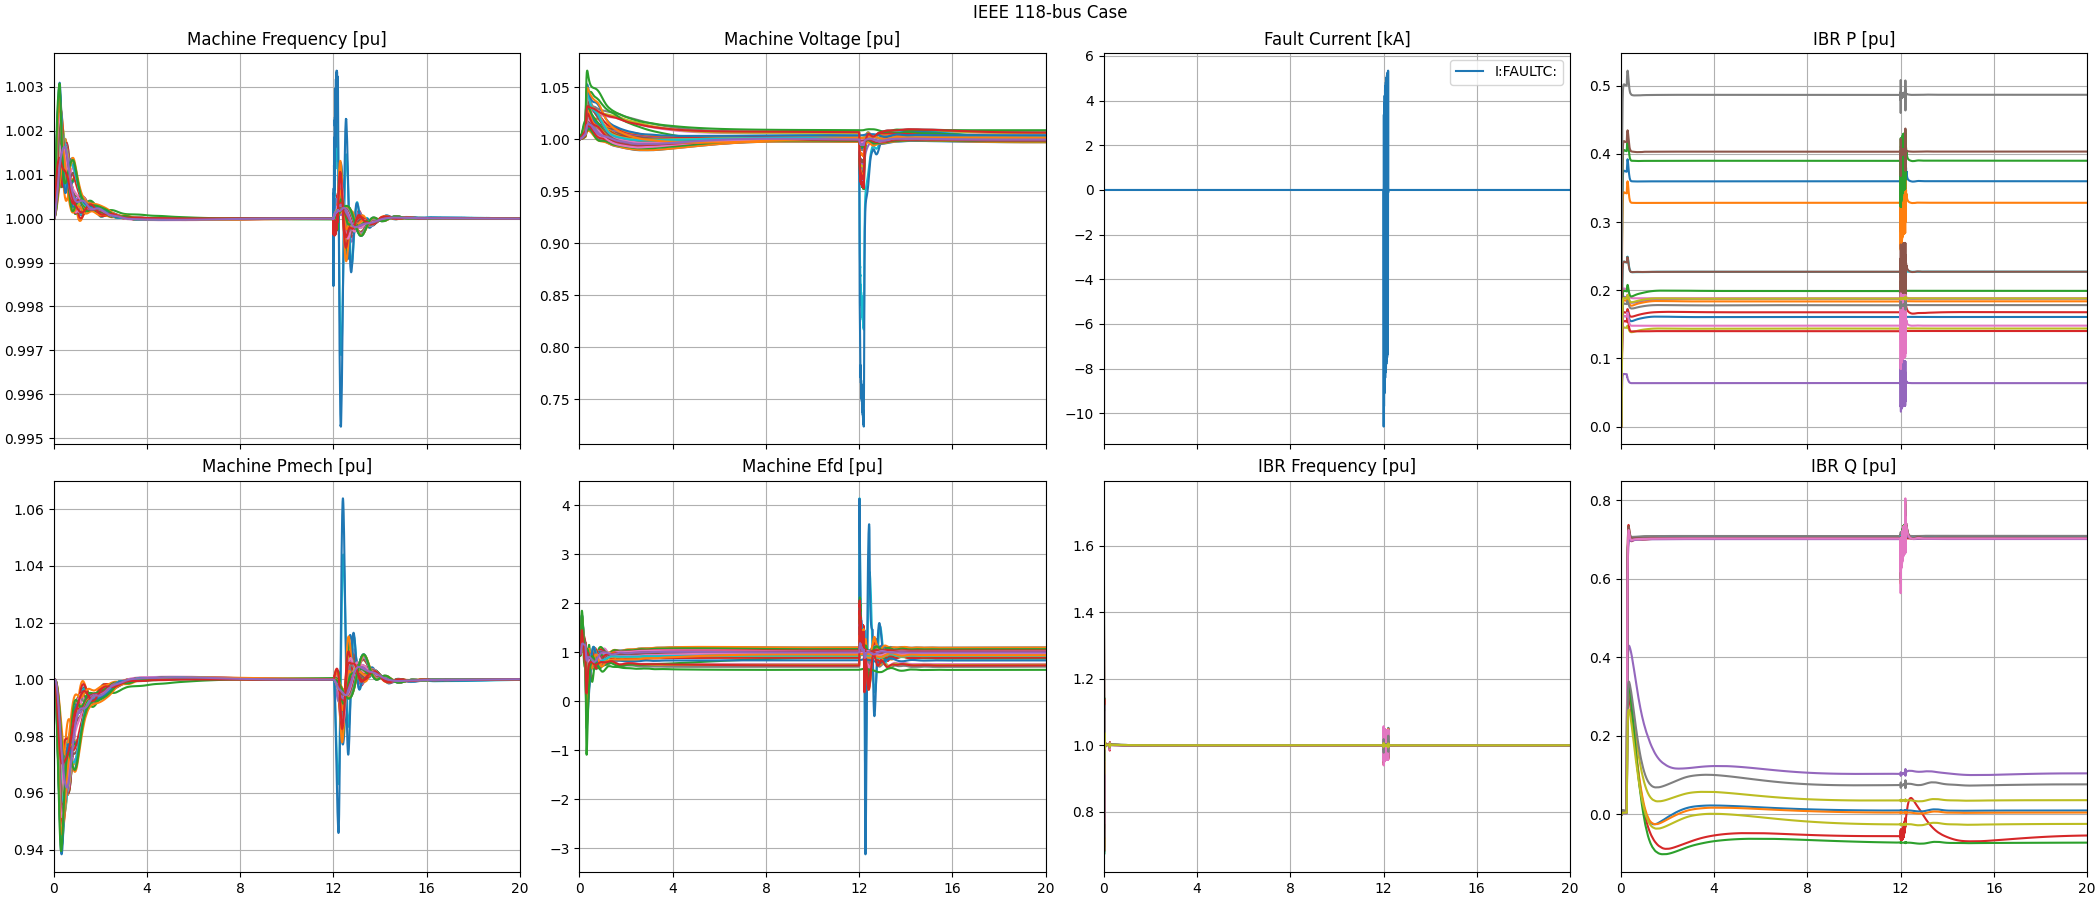
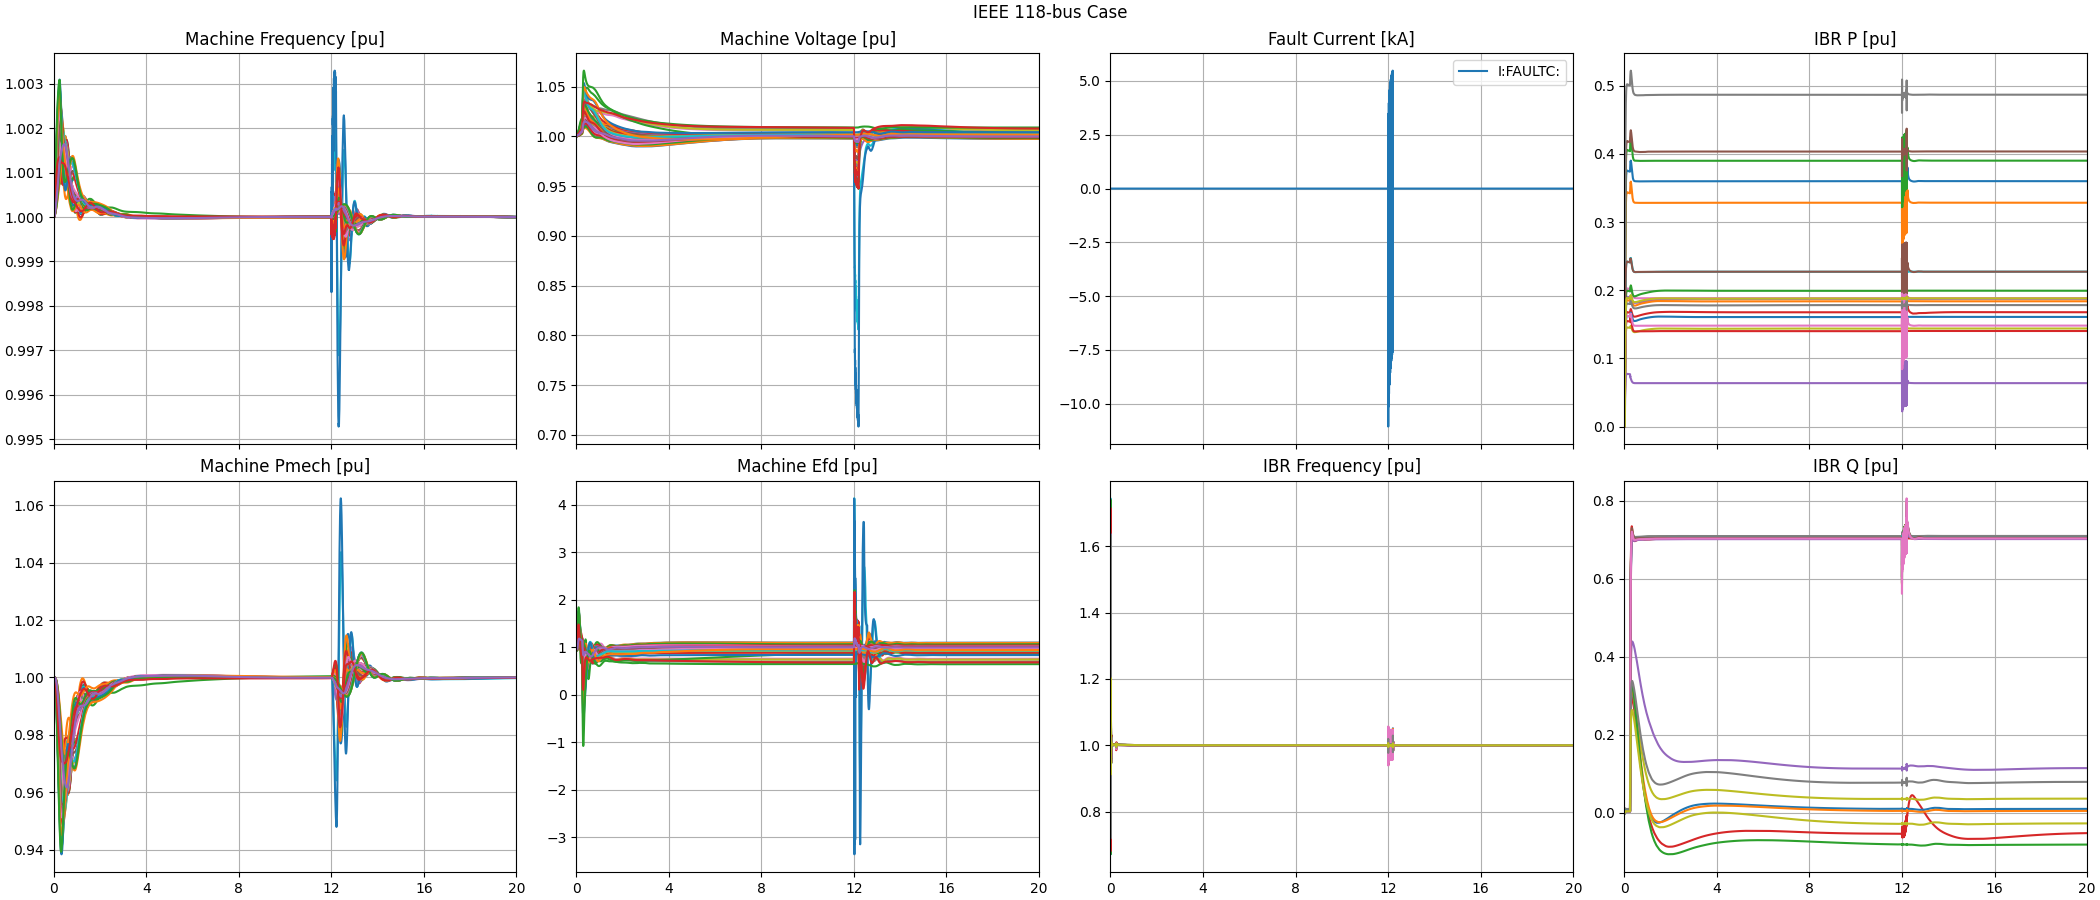
using Zpu in TheveninVoltage calculation for swing bus

diff --git a/cim/cim_to_atp.py b/cim/cim_to_atp.py
@@ -714,7 +714,7 @@ def convert_one_atp_model (d, icd, fpath, case):
   R1 = r1pu_swing * zbase
   X0 = X1
   R0 = R1
-  vmag, vang = TheveninVoltage (vmag, vang, R1, X1, p_swing/mva_swing, q_swing/mva_swing)  # TODO: should R1, X1 be perunit?
+  vmag, vang = TheveninVoltage (vmag, vang, r1pu_swing, x1pu_swing, p_swing/mva_swing, q_swing/mva_swing)
   vmag = vmag * kv * 1000.0 * SQRT2 / SQRT3
   vang = vang + GEN_SHIFT
   print ('C =============================================================================', file=ap)
